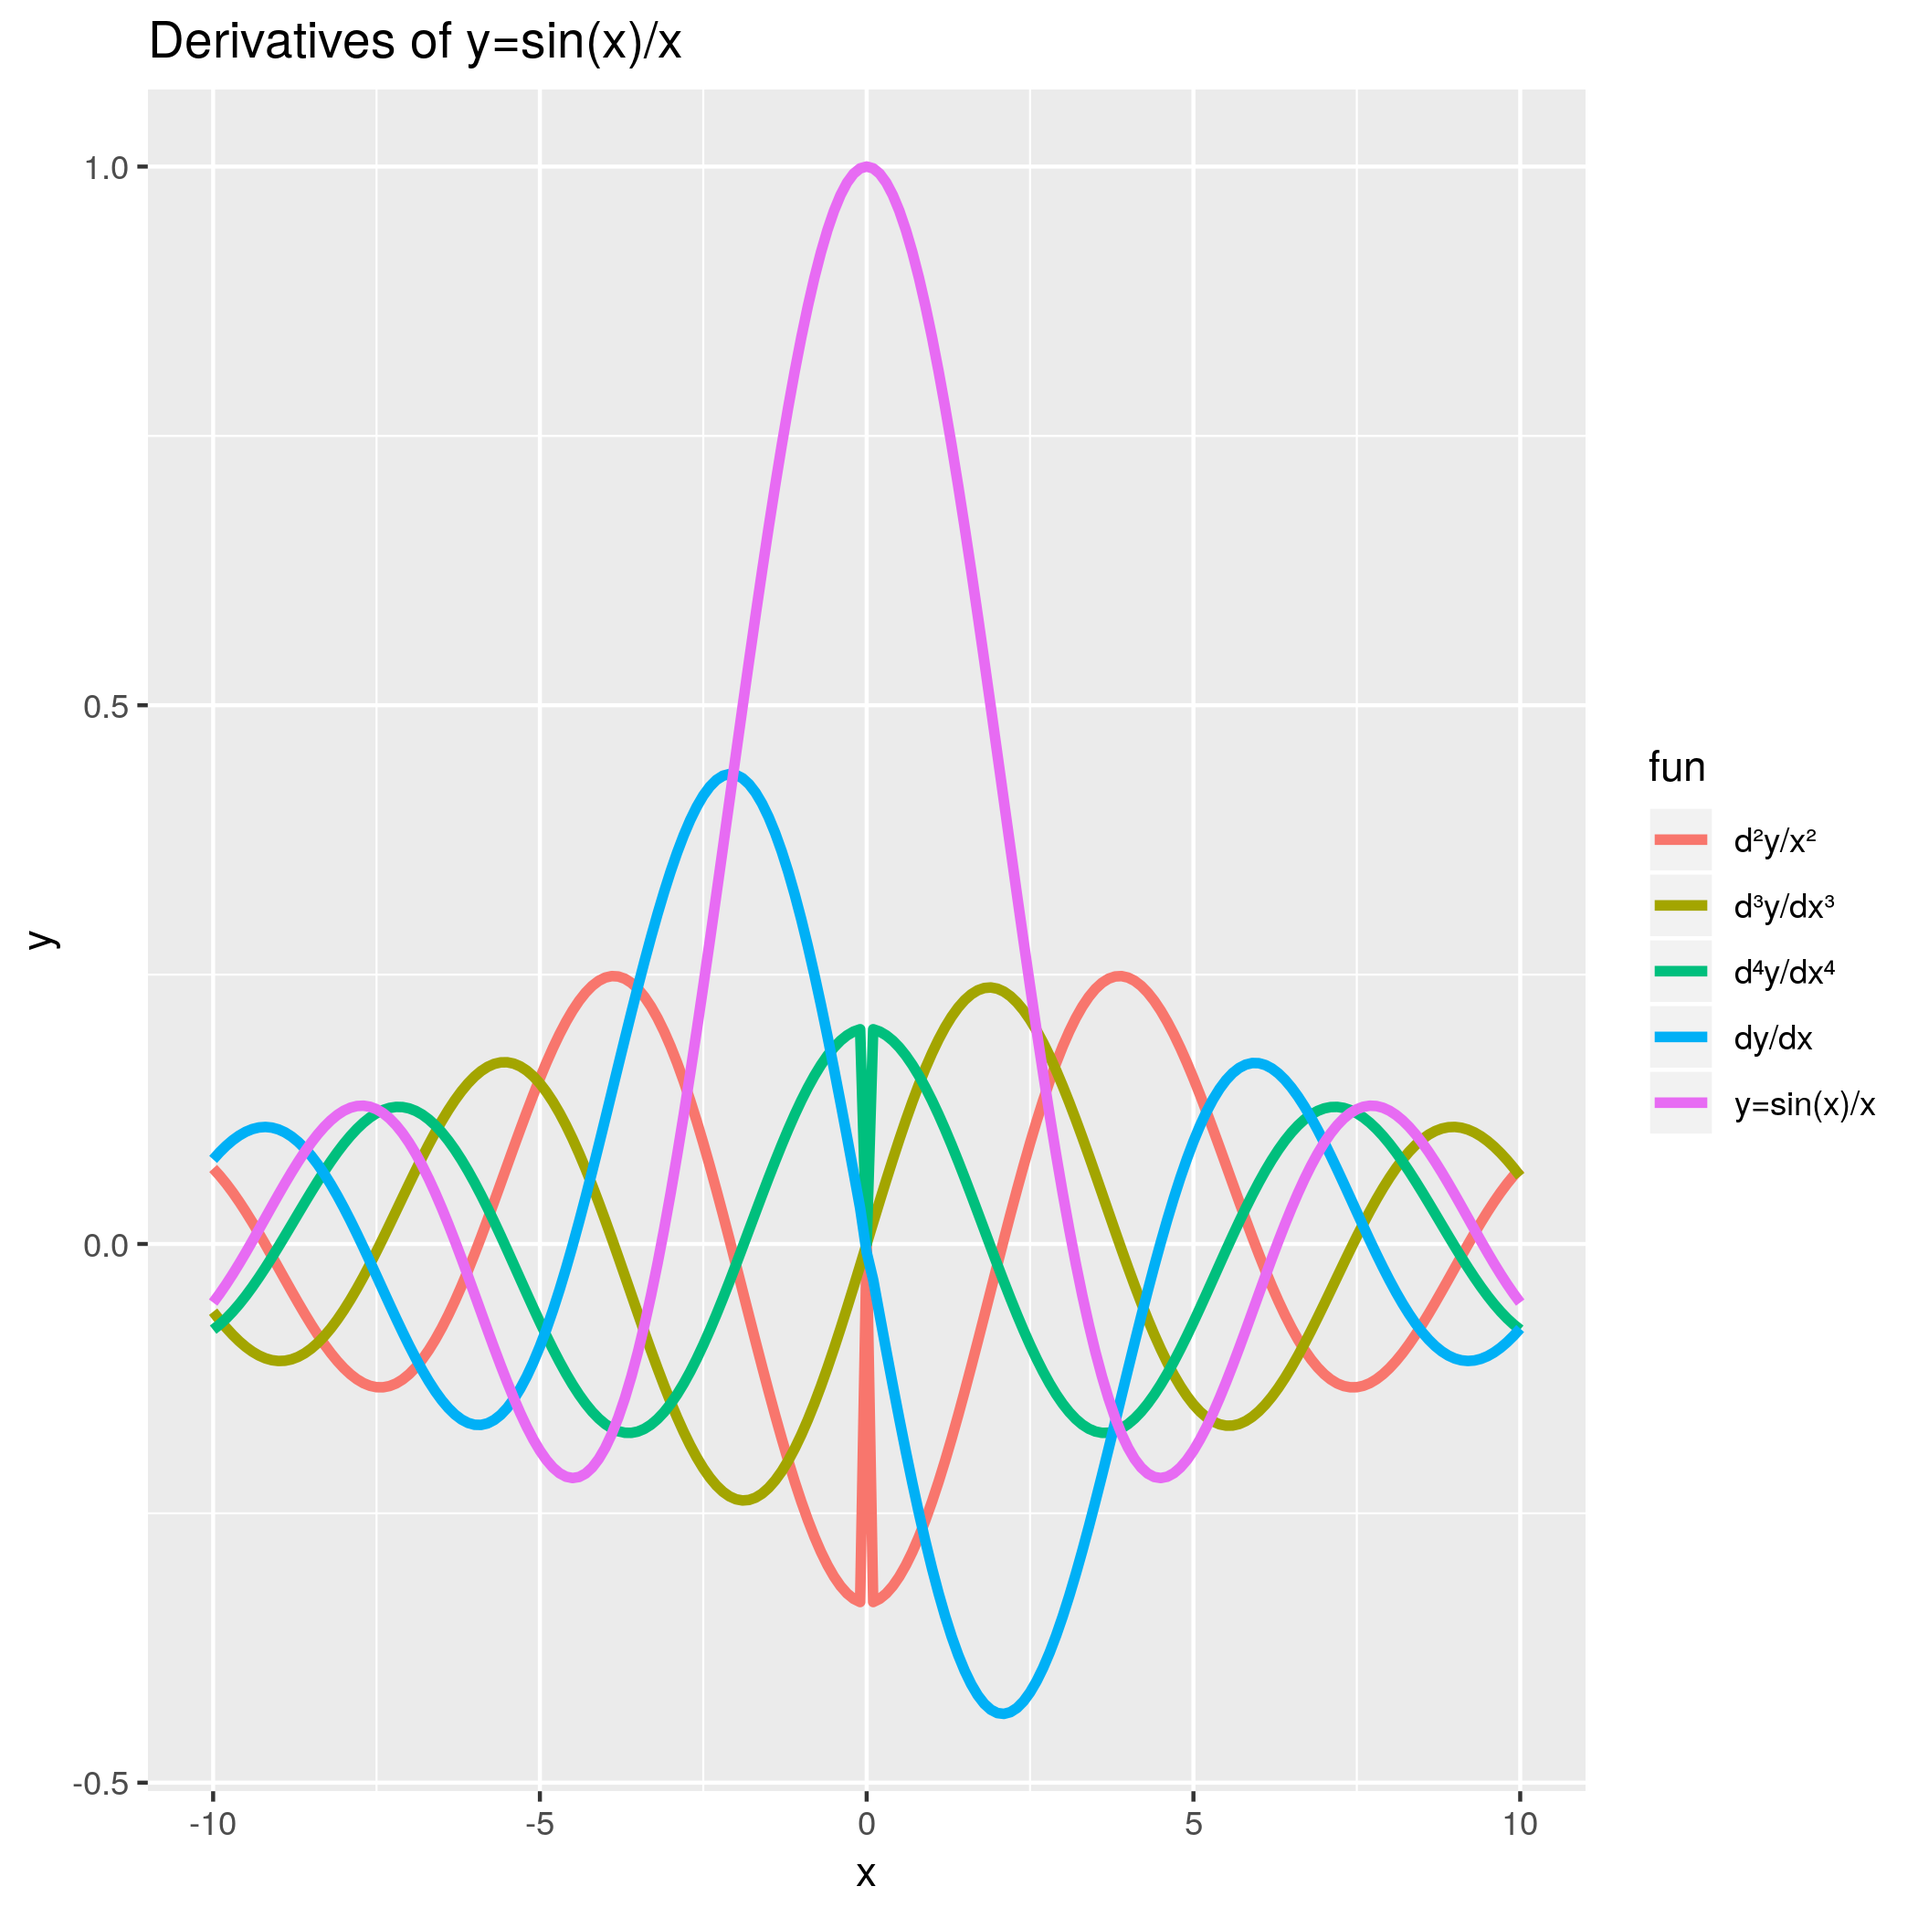
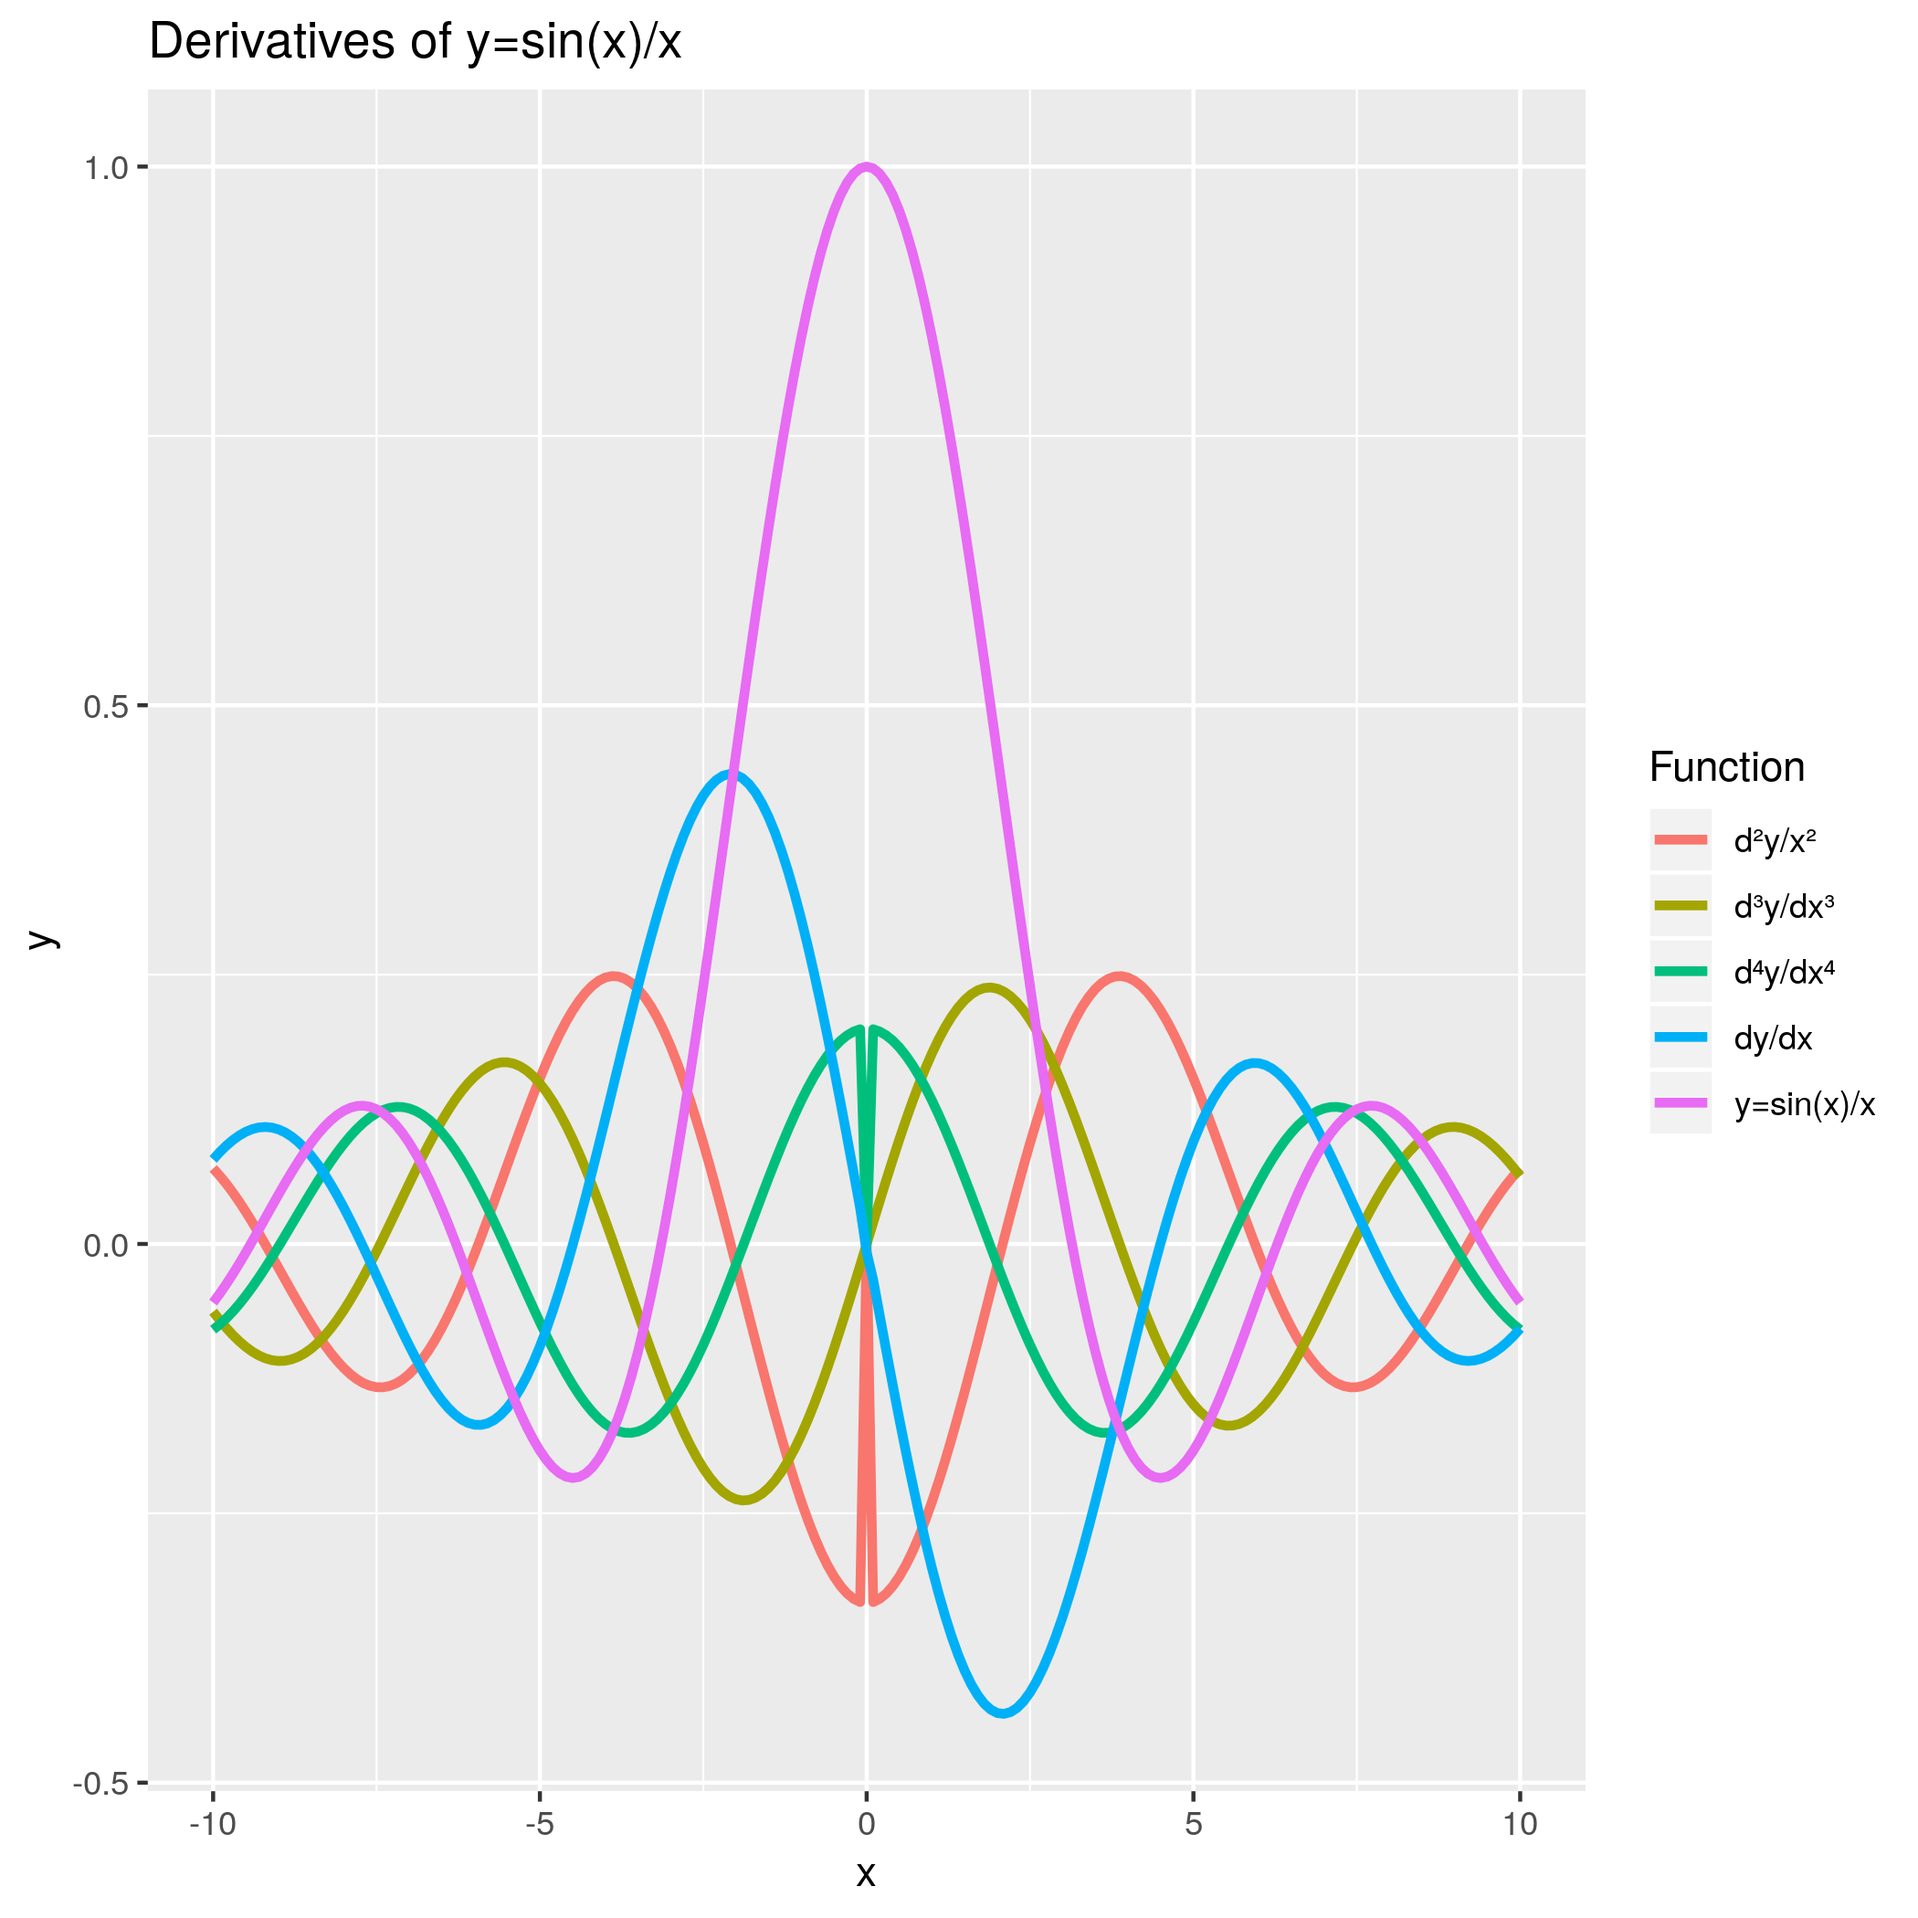
simplify notation a bit

Changed region(s): [[0.8667, 0.3714, 0.9286, 0.4024]]

diff --git a/src/main/kotlin/edu/umontreal/kotlingrad/math/samples/TestPlot.kt b/src/main/kotlin/edu/umontreal/kotlingrad/math/samples/TestPlot.kt
@@ -1,17 +1,16 @@
 package edu.umontreal.kotlingrad.math.samples
 
 import edu.umontreal.kotlingrad.math.calculus.DoubleFunctor
-import edu.umontreal.kotlingrad.math.numerical.DoubleReal
-import krangl.DataFrame
+import edu.umontreal.kotlingrad.utils.step
 import krangl.dataFrameOf
 import kravis.geomLine
 import kravis.plot
 import java.io.File
 
+@Suppress("NonAsciiCharacters", "LocalVariableName", "RemoveRedundantBackticks")
 fun main(args: Array<String>) {
-
   with(DoubleFunctor) {
-    val x = variable("x")
+    val x = variable()
 
     val y = sin(x) / x
     val `dy_dx` = d(y) / d(x)
@@ -21,32 +20,16 @@ fun main(args: Array<String>) {
 
     val xs = -10.0..10.0 step 0.1
 
-    val len = xs.toList().size
+    val ys = (xs.map { listOf(it, y(x to it), "y=sin(x)/x") } +
+        xs.map { listOf(it, dy_dx(x to it), "dy/dx") } +
+        xs.map { listOf(it, `d²y_dx²`(x to it), "d²y/x²") } +
+        xs.map { listOf(it, `d³y_dx³`(x to it), "d³y/dx³") } +
+        xs.map { listOf(it, `d⁴y_dx⁴`(x to it), "d⁴y/dx⁴") }).flatten()
 
-    val ys0 = xs.map { arrayListOf(it, y(x to DoubleReal(it)).dbl, "y=sin(x)/x") }
-    val ys1 = xs.map { arrayListOf(it, dy_dx(x to DoubleReal(it)).dbl, "dy/dx") }
-    val ys2 = xs.map { arrayListOf(it, `d²y_dx²`(x to DoubleReal(it)).dbl, "d²y/x²") }
-    val ys3 = xs.map { arrayListOf(it, `d³y_dx³`(x to DoubleReal(it)).dbl, "d³y/dx³") }
-    val ys4 = xs.map { arrayListOf(it, `d⁴y_dx⁴`(x to DoubleReal(it)).dbl, "d⁴y/dx⁴") }
-
-
-    val df: DataFrame = dataFrameOf("x", "y", "fun")((ys0 + ys1 + ys2 + ys3 + ys4).flatten())
-
-    df.plot(x = "x", y = "y", color = "fun")
-        .geomLine(size = 1.3)
+    dataFrameOf("x", "y", "Function")(ys)
+        .plot(x = "x", y = "y", color = "Function")
+        .geomLine(size = 1.2)
         .title("Derivatives of y=sin(x)/x")
         .save(File("src/main/resources/plot.png"))
   }
-}
-
-infix fun ClosedRange<Double>.step(step: Double): Iterable<Double> {
-  require(start.isFinite())
-  require(endInclusive.isFinite())
-  require(step > 0.0) { "Step must be positive, was: $step." }
-  val sequence = generateSequence(start) { previous ->
-    if (previous == Double.POSITIVE_INFINITY) return@generateSequence null
-    val next = previous + step
-    if (next > endInclusive) null else next
-  }
-  return sequence.asIterable()
 }

diff --git a/src/main/kotlin/edu/umontreal/kotlingrad/math/samples/HelloKotlinGrad.kt b/src/main/kotlin/edu/umontreal/kotlingrad/math/samples/HelloKotlinGrad.kt
@@ -1,7 +1,6 @@
 package edu.umontreal.kotlingrad.math.samples
 
 import edu.umontreal.kotlingrad.math.calculus.DoubleFunctor
-import edu.umontreal.kotlingrad.math.numerical.DoubleReal
 
 @Suppress("NonAsciiCharacters", "LocalVariableName")
 fun main(args: Array<String>) {
@@ -16,9 +15,9 @@ fun main(args: Array<String>) {
     val `∂²z_∂x∂y` = d(`∂z_∂x`) / d(y) // Higher order partials
     val `∇z` = z.grad()                // Gradient operator
 
-    val values = mapOf(x to DoubleReal(0), y to DoubleReal(1))
+    val values = mapOf(x to 0, y to 1)
     val indVar = z.independentVariables().joinToString(", ")
-    val p = "${x(x to DoubleReal(0))}, ${y(y to DoubleReal(1))}"
+    val p = "${x(x to 0)}, ${y(y to 1)}"
     print("z($indVar) \t\t\t\t= $z\n" +
         "∂z($p)/∂x \t\t= $`∂z_∂x` \n\t\t\t\t\t\t= " + `∂z_∂x`(values) + "\n" +
         "∂z($p)/∂y \t\t= $`∂z_∂y` \n\t\t\t\t\t\t= " + `∂z_∂y`(values) + "\n" +

diff --git a/src/main/kotlin/edu/umontreal/kotlingrad/math/calculus/DoubleFunctor.kt b/src/main/kotlin/edu/umontreal/kotlingrad/math/calculus/DoubleFunctor.kt
@@ -1,5 +1,6 @@
 package edu.umontreal.kotlingrad.math.calculus
 
+import edu.umontreal.kotlingrad.math.functions.Function
 import edu.umontreal.kotlingrad.math.numerical.DoubleReal
 import edu.umontreal.kotlingrad.math.numerical.ProtoDouble
 import edu.umontreal.kotlingrad.math.types.Var
@@ -8,4 +9,10 @@ object DoubleFunctor: RealFunctor<DoubleReal>(ProtoDouble) {
   fun variable(default: Number) = Var(rfc, DoubleReal(default.toDouble()))
 
   fun variable(name: String, default: Number) = Var(rfc, DoubleReal(default.toDouble()), name)
+
+  operator fun Function<DoubleReal>.invoke(pairs: Map<Var<DoubleReal>, Number>) =
+      this.invoke(pairs.map { Pair(it.key, DoubleReal(it.value)) }.toMap()).dbl
+
+  operator fun Function<DoubleReal>.invoke(vararg pairs: Pair<Var<DoubleReal>, Number>) =
+      this.invoke(pairs.map { Pair(it.first, DoubleReal(it.second)) }.toMap()).dbl
 }

diff --git a/src/main/kotlin/edu/umontreal/kotlingrad/utils/Utils.kt b/src/main/kotlin/edu/umontreal/kotlingrad/utils/Utils.kt
@@ -1,0 +1,13 @@
+package edu.umontreal.kotlingrad.utils
+
+infix fun ClosedRange<Double>.step(step: Double): Iterable<Double> {
+  require(start.isFinite())
+  require(endInclusive.isFinite())
+  require(step > 0.0) { "Step must be positive, was: $step." }
+  val sequence = generateSequence(start) { previous ->
+    if (previous == Double.POSITIVE_INFINITY) return@generateSequence null
+    val next = previous + step
+    if (next > endInclusive) null else next
+  }
+  return sequence.asIterable()
+}

diff --git a/README.md b/README.md
@@ -65,7 +65,47 @@ To run [the tests](src/test/kotlin/edu/umontreal/kotlingrad), execute: `./gradle
 
 ### Plotting
 
-To plot the charts, you will need to install R and some packages. Ubuntu 18.04 instructions follow:
+![](src/main/resources/plot.png)
+
+This plot was generated with the following code:
+
+```kotlin
+import edu.umontreal.kotlingrad.math.calculus.DoubleFunctor
+import edu.umontreal.kotlingrad.utils.step
+import krangl.dataFrameOf
+import kravis.geomLine
+import kravis.plot
+import java.io.File
+
+@Suppress("NonAsciiCharacters", "LocalVariableName", "RemoveRedundantBackticks")
+fun main(args: Array<String>) {
+  with(DoubleFunctor) {
+    val x = variable()
+
+    val y = sin(x) / x
+    val `dy_dx` = d(y) / d(x)
+    val `d²y_dx²` = d(dy_dx) / d(x)
+    val `d³y_dx³` = d(`d²y_dx²`) / d(x)
+    val `d⁴y_dx⁴` = d(`d³y_dx³`) / d(x)
+
+    val xs = -10.0..10.0 step 0.1
+
+    val ys = (xs.map { listOf(it, y(x to it), "y=sin(x)/x") } +
+        xs.map { listOf(it, dy_dx(x to it), "dy/dx") } +
+        xs.map { listOf(it, `d²y_dx²`(x to it), "d²y/x²") } +
+        xs.map { listOf(it, `d³y_dx³`(x to it), "d³y/dx³") } +
+        xs.map { listOf(it, `d⁴y_dx⁴`(x to it), "d⁴y/dx⁴") }).flatten()
+
+    dataFrameOf("x", "y", "Function")(ys)
+        .plot(x = "x", y = "y", color = "Function")
+        .geomLine(size = 1.2)
+        .title("Derivatives of y=sin(x)/x")
+        .save(File("src/main/resources/plot.png"))
+  }
+}
+```
+
+To generate the above plot, you will need to install R and some packages. Ubuntu 18.04 instructions follow:
 
 ```
 sudo apt-get install r-base && \
@@ -73,9 +113,7 @@ sudo ln -s /usr/bin/R /usr/local/bin/R && \
 R -e "install.packages(c('ggplot2','dplyr','readr','forcats'))"
 ```
 
-Then run `./gradlew plot`. This should generate the following plot:
-
-![](src/main/resources/plot.png)
+Then run `./gradlew plot`.
 
 ## Ideal API (WIP)
 
